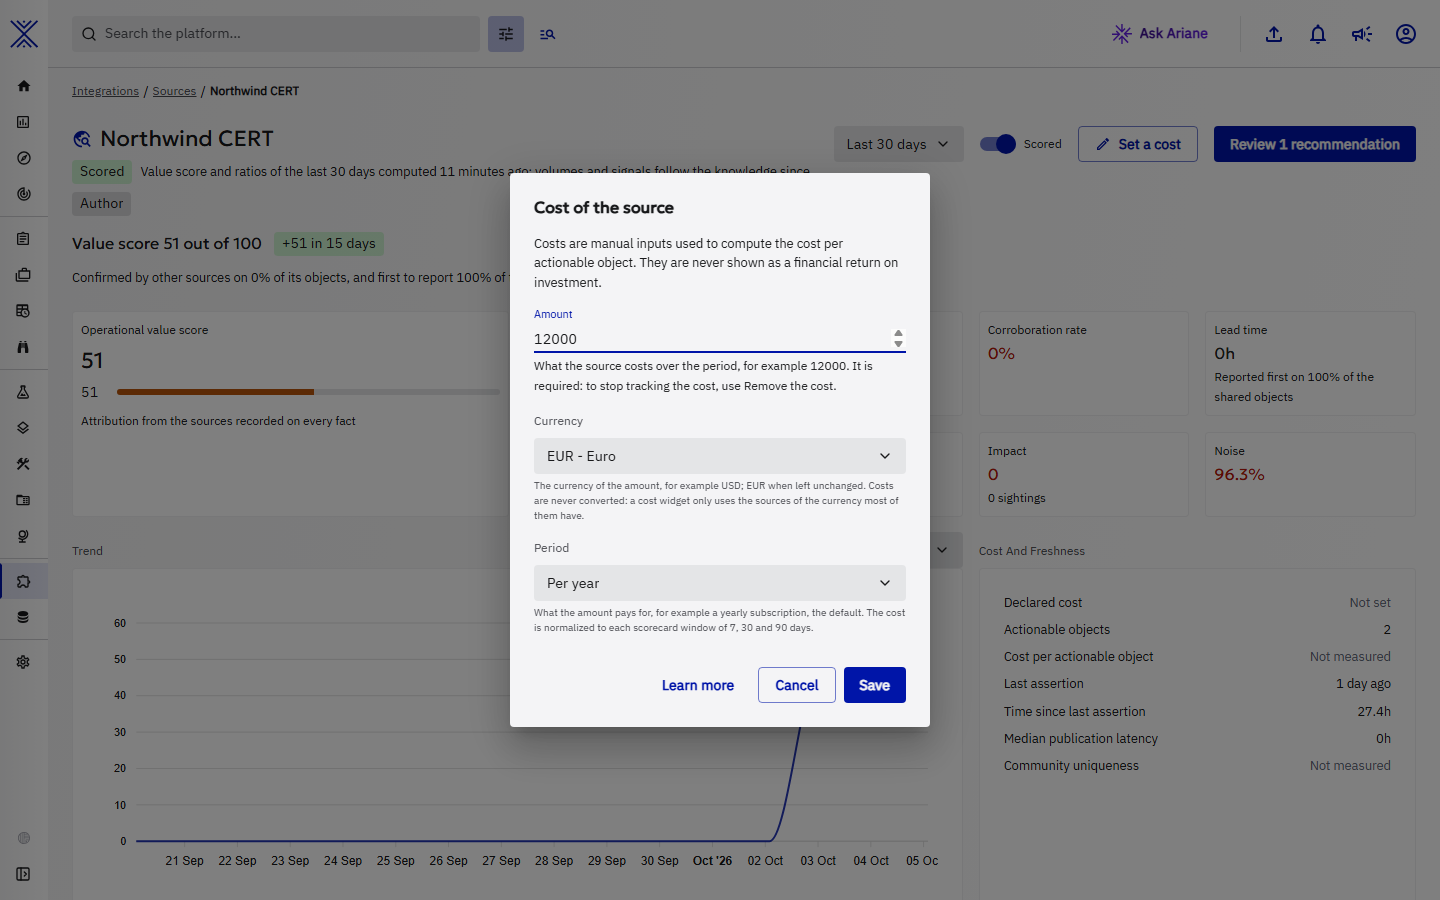
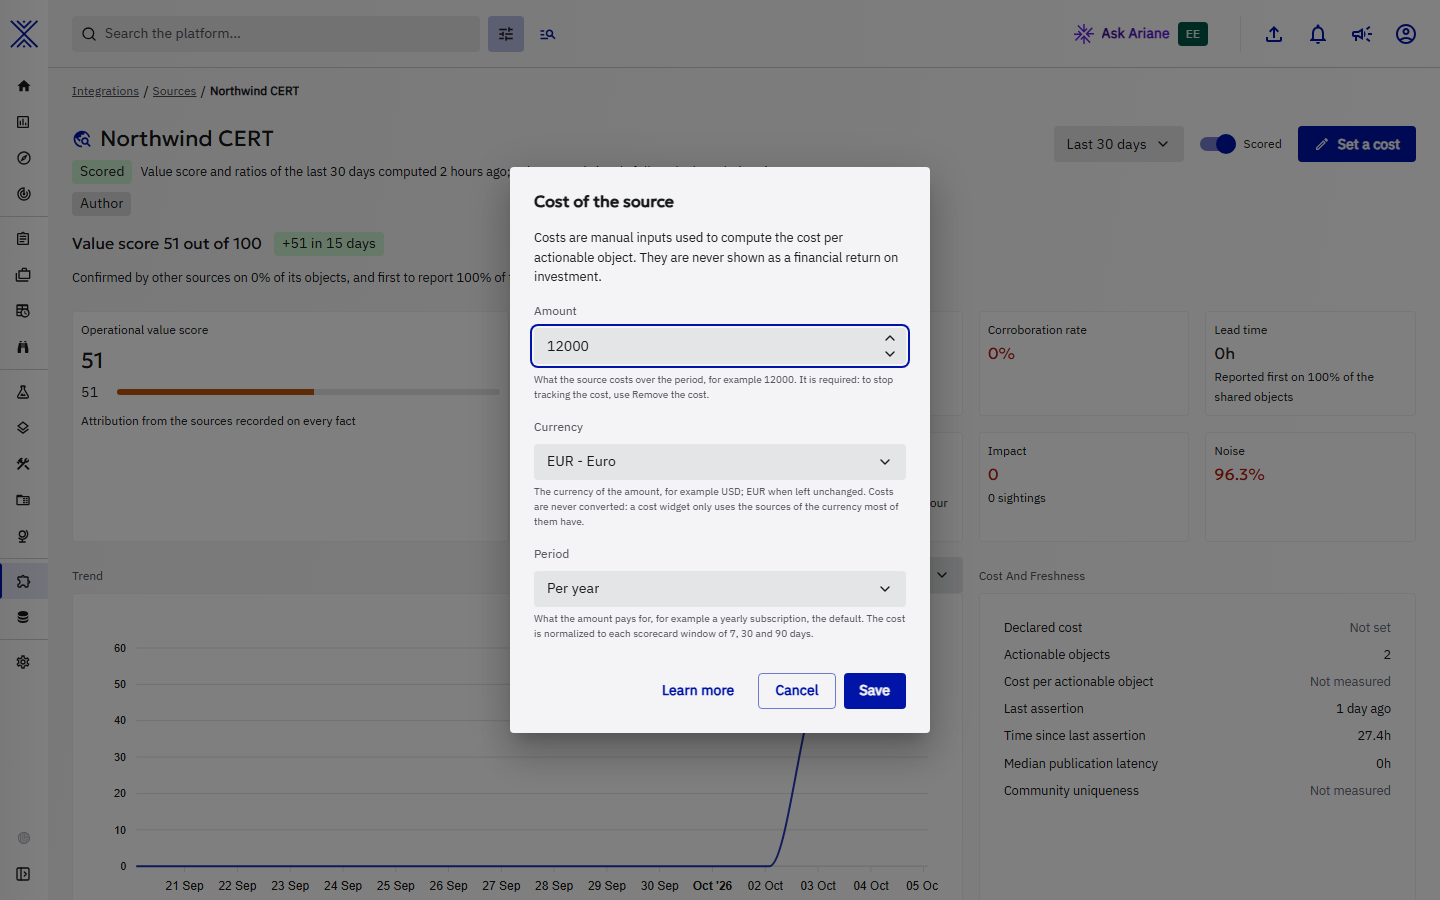
fix(source-intelligence): render the cost amount with the design-system input like the other cost fields (#18673)
The amount passed its bounds through inputProps, which the platform text field cannot place on the design-system input, so it fell back to the previous input and its larger help line. The bounds are passed as native attributes: the three help lines of the cost editor now share one style. Screenshots of the cost editor refreshed in dark and light.

diff --git a/opencti-platform/opencti-front/src/private/components/integrations/sources/SourceCostEditor.tsx b/opencti-platform/opencti-front/src/private/components/integrations/sources/SourceCostEditor.tsx
@@ -113,7 +113,8 @@ const SourceCostEditor = ({ sourceId, cost, primary = false, initialOpen = false
                   label={t_i18n('Amount')}
                   helperText={t_i18n('What the source costs over the period, for example 12000. It is required: to stop tracking the cost, use Remove the cost.')}
                   fullWidth
-                  inputProps={{ min: 0, step: 0.01 }}
+                  min={0}
+                  step={0.01}
                 />
                 <Field
                   component={SelectFieldFds}
